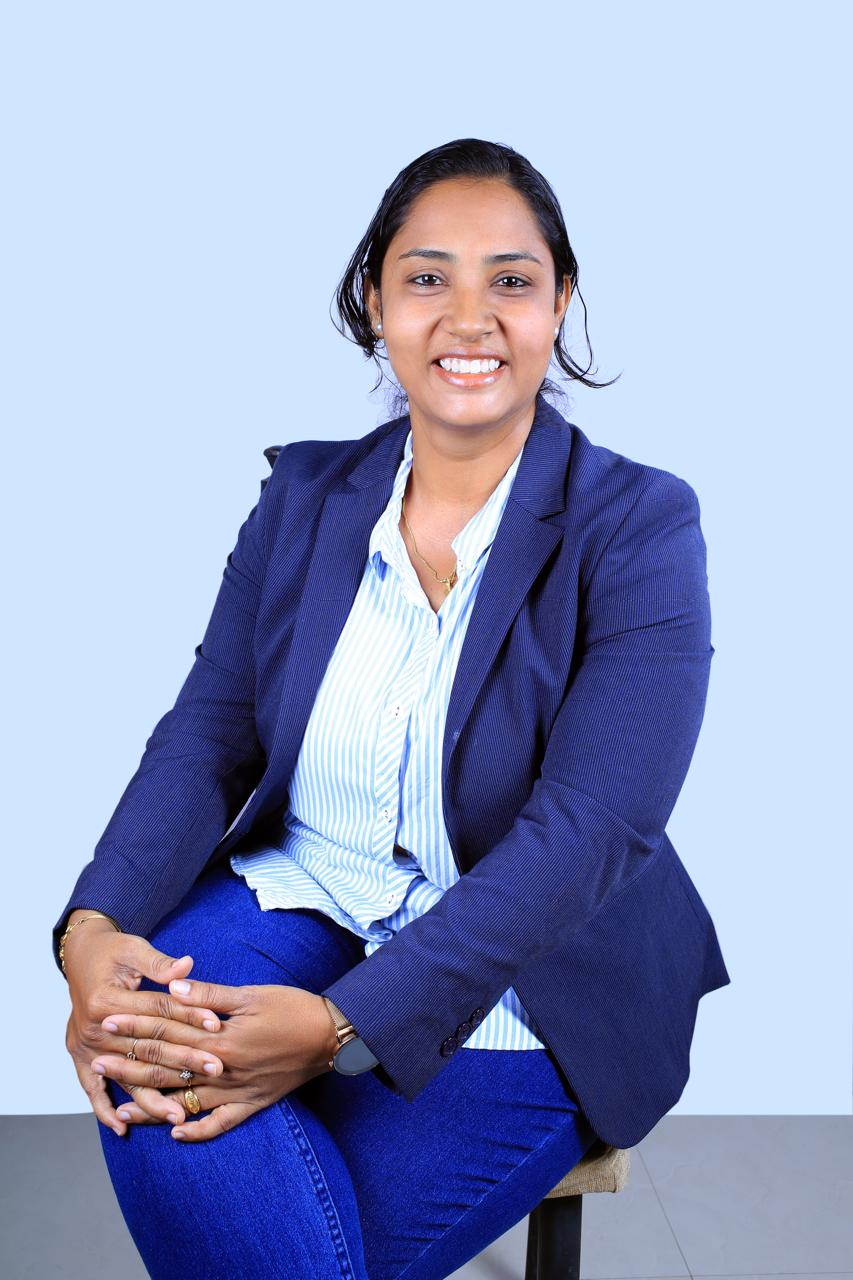
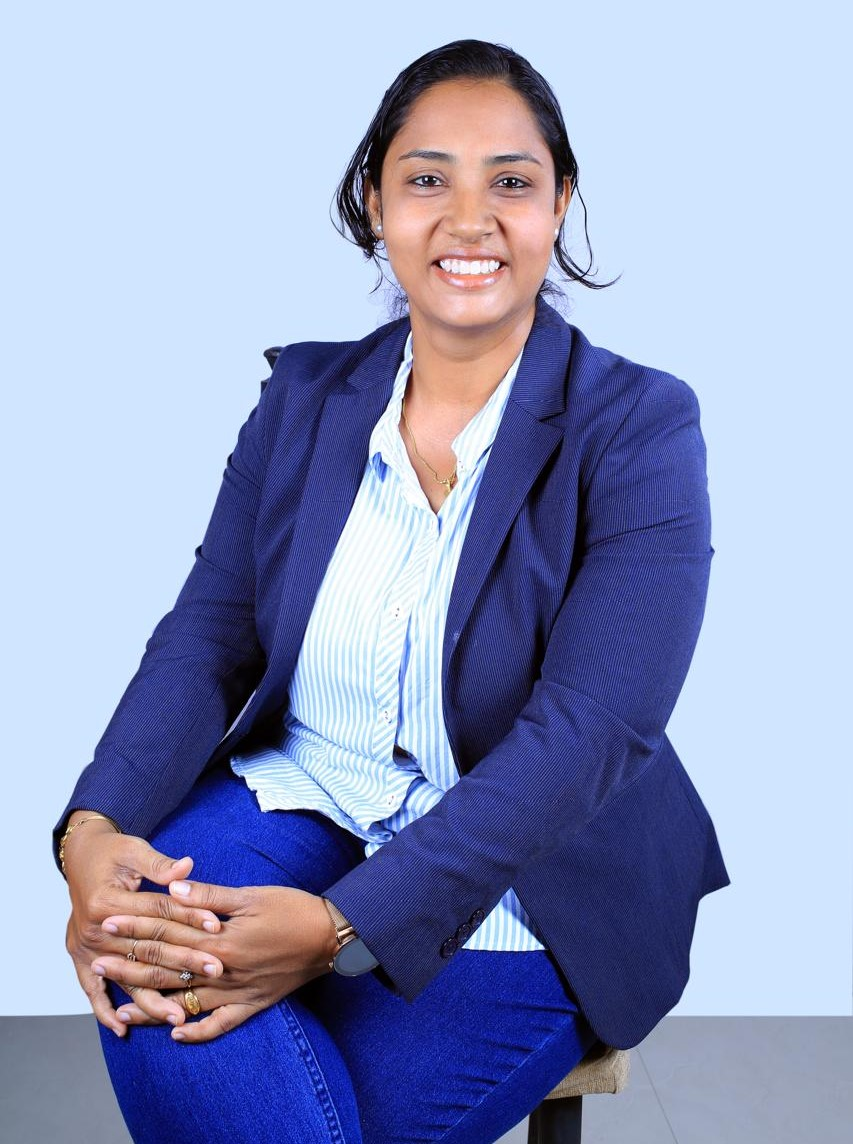
changes our team and profile page's profile image

diff --git a/src/Components/ProfilePage/CeoMessage.jsx b/src/Components/ProfilePage/CeoMessage.jsx
@@ -8,12 +8,22 @@ function CeoMessage() {
       <div className="container overflow-hidden">
         <div className="row pt-3 pt-lg-0 m-0 g-4 align-items-center">
           <div className="col-12 col-lg-6  p-3 p-lg-5 pt-0" data-aos="zoom-in" data-aos-duration="1800" data-aos-once="true" data-aos-delay="400">
-            <div className="h-100">
+            {/* <div className="h-100">
               <div className="profile_bg h-100">
                 <img
                   src={require("../../Assets/Images/STAFF PHOTOS/MuniaThulaseesdas.png")}
                   alt=""
                   className="img-fluid w-100 h-100 object-fit-contain image_rad ceoprofileimage p-4"
+
+                />
+              </div>
+            </div> */}
+            <div className="h-100">
+              <div className=" w-75 h-75 mx-auto">
+                <img
+                  src={require("../../Assets/Images/IMG-20250129-WA0001.jpg")}
+                  alt=""
+                  className="img-fluid w-100 h-100 object-fit-contain  shadow"
 
                 />
               </div>
@@ -105,12 +115,24 @@ function CeoMessage() {
             </div>
           </div>
           <div className="col-12 col-lg-6 p-5 pt-0 pb-0 pb-lg-5 order-0 order-lg-1" data-aos="fade-right" data-aos-duration="1800" data-aos-once="true" data-aos-delay="400">
-            <div className="h-100">
+            {/* <div className="h-100">
               <div className="profile_bg h-100">
                 <img
                   src={require("../../Assets/Images/STAFF PHOTOS/CEO-removebg-preview.png")}
                   alt=""
                   className="img-fluid w-100 h-100 object-fit-contain image_rad ceoprofileimage p-4"
+
+                />
+              </div>
+            </div> */}
+            <div className="h-100">
+              <div className=" w-75 h-75 mx-auto">
+                <img
+                src={require("../../Assets/Images/STAFF PHOTOS/CEO-removebg-preview.png")}
+
+                  alt=""
+                  className="img-fluid w-100 h-100 object-fit-contain  shadow"
+                  style={{backgroundColor:"rgb(206,230,250)"}}
 
                 />
               </div>

diff --git a/src/Components/Aboutuspage/OurTeam.jsx b/src/Components/Aboutuspage/OurTeam.jsx
@@ -5,9 +5,9 @@ import { Link } from 'react-router-dom';
 function OurTeam() {
 const Team = [
   {
-    img:require("../../Assets/Images/STAFF PHOTOS/Vishnu .jpg") ,
-    name: "ABHIJITH SANKAR M",
-    position: "	Sales Executive",
+    img:require("../../Assets/Images/STAFF PHOTOS/remya.JPEG") ,
+    name: "remya rajan",
+    position: "	general manager sales",
     aos: "zoom-in-right",
     objectposition:"top center"
   },
@@ -19,17 +19,19 @@ const Team = [
     objectposition:"top center"
   },
   {
+    img:require("../../Assets/Images/STAFF PHOTOS/akhil.JPEG") ,
+    name: "akhil c a",
+    position: "project manager",
+    aos: "zoom-in-left",
+    objectposition:"top center"
+  },
+  {
     img:require("../../Assets/Images/STAFF PHOTOS/Sreelekshmi S.jpg") ,
     name: "SREELEKLSHMI S",
     position: "Service Manager",
     aos: "zoom-in-right",
   },
-  {
-    img:require("../../Assets/Images/STAFF PHOTOS/Sharika Sankar.jpg") ,
-    name: "SHARIKA SANKAR",
-    position: "	Customer Care Executive",
-    aos: "zoom-in-right",
-  },
+
 
 ];
   return (
@@ -80,8 +82,8 @@ const Team = [
                       />
                     </div>
                     <div className="col-lg-7 mediaset  text-md-center  text-lg-start">
-                      <h4 className="fw-bold text-success">{item.name}</h4>
-                      <p className=' text-secondary'>{item.position}</p>
+                      <h4 className="fw-bold text-success text-uppercase">{item.name}</h4>
+                      <p className=' text-secondary text-capitalize'>{item.position}</p>
               
                     </div>
                   </div>
